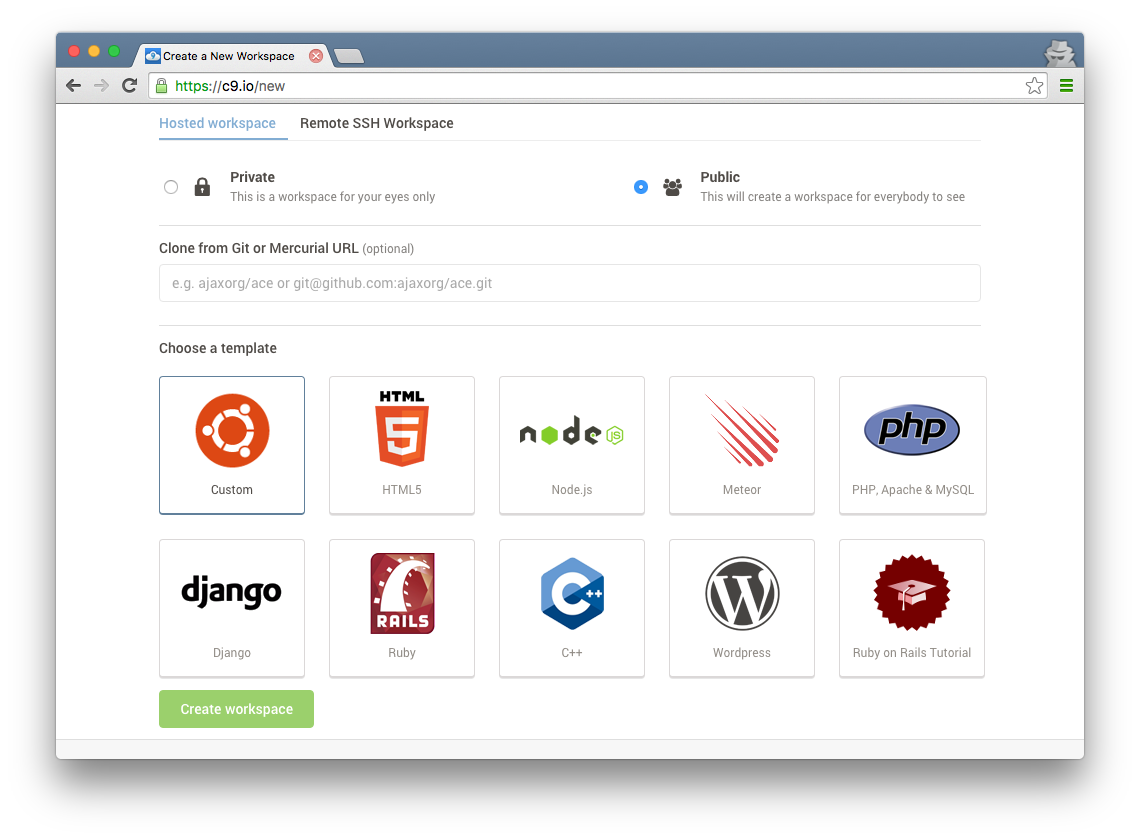
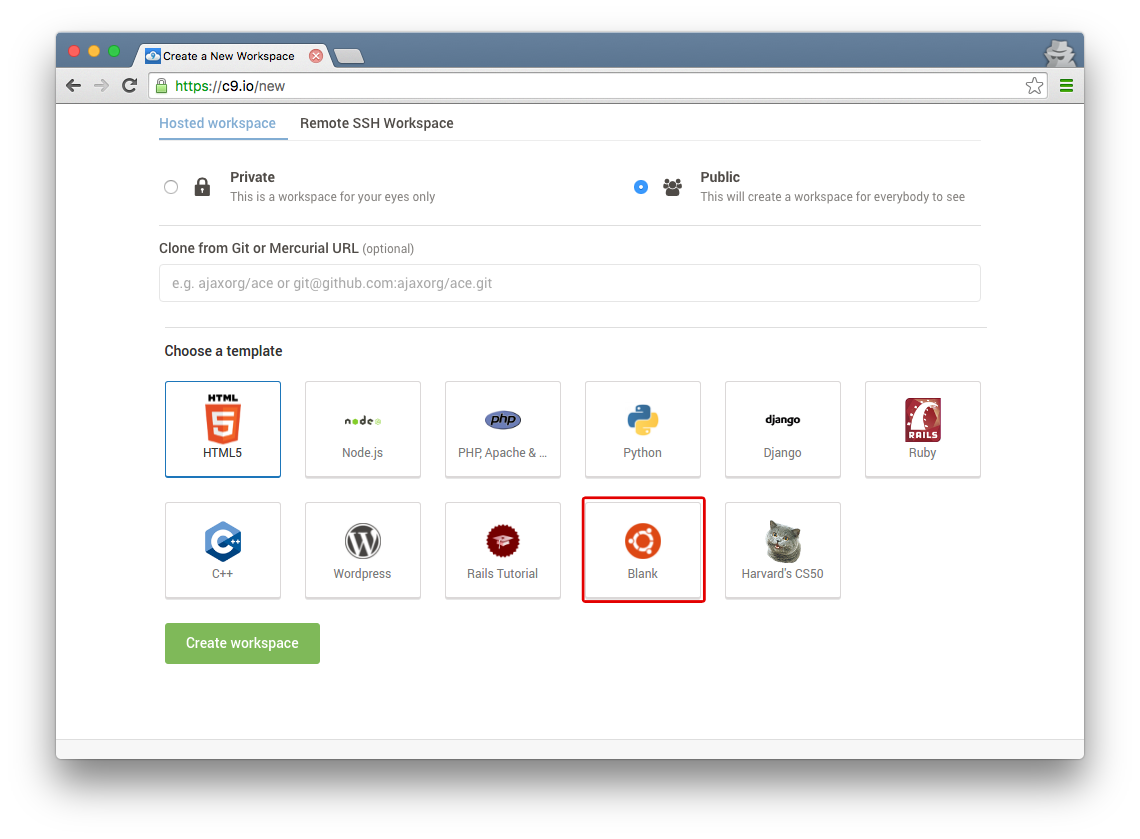
Updates Step0: Changes 'Custom' to 'Blank', Updates the screenshot. (#17)
* Changes 'Custom' to 'Blank' on line 10.

* Updates the first screenshot.

* Adds alternative way to upload files to cloud9.

diff --git a/steps/3.md b/steps/3.md
@@ -10,7 +10,7 @@ Create a `public` folder in your workspace and an `images` folder inside `public
 
 ![public/images folder](/images/step_3/public_images_folder.png)
 
-Now upload the background image you have chosen (the smaller if there is more than one - `ricepaper_v3.png` in this example) to `public/images`.  You'll find an 'Upload Local Files...' option under 'File' menu in Cloud9.
+Now upload the background image you have chosen (the smaller if there is more than one - `ricepaper_v3.png` in this example) to `public/images`.  You'll find an 'Upload Local Files...' option under 'File' menu in Cloud9. Alternatively, you could just drag & drop the file to the folder.
 
 To set this as the background image of our website, we can add some CSS directly to the `index.erb` file by adding a `style` attribute to the `<body>` tag:
 

diff --git a/steps/0.md b/steps/0.md
@@ -46,7 +46,7 @@ $ ruby -v
 (...then hit return to enter it.) You should see something like this:
 
 ```
-ruby 2.2.1p85 (2015-02-26 revision 49769) [x86_64-linux]
+ruby 2.3.0p0 (2015-12-25 revision 53290) [x86_64-linux]
 ```
 
 > We'll use the `$` sign to represent the command line prompt and to differentiate commands you should enter from output you should see.
